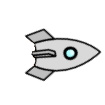
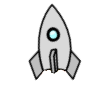
Made images file size smaller so that the total scenario size is smaller.
(from subversion r5623)

Changed region(s): [[0.2286, 0.0286, 0.9714, 0.8]]

diff --git a/greenfoot/scenarios/lunarlander/Explosion.java b/greenfoot/scenarios/lunarlander/Explosion.java
@@ -38,8 +38,8 @@ public class Explosion extends Actor
      */
     public synchronized static void initialiseImages() {
         if(images == null) {
-            GreenfootImage baseImage = new GreenfootImage("images/explosion.png");
-            int maxSize = baseImage.getWidth()/2;
+            GreenfootImage baseImage = new GreenfootImage("explosion.png");
+            int maxSize = baseImage.getWidth()*4;
             int delta = maxSize / (IMAGE_COUNT+1);
             int size = 0;
             images = new GreenfootImage[IMAGE_COUNT];

diff --git a/greenfoot/scenarios/lunarlander/Lander.java b/greenfoot/scenarios/lunarlander/Lander.java
@@ -44,9 +44,8 @@ public class Lander extends Actor
     public Lander()
     {
         rocket = getImage();
-        rocketWithThrust = new GreenfootImage("images/thrust.png");
+        rocketWithThrust = new GreenfootImage("thrust.png");
         rocketWithThrust.drawImage(rocket, 0, 0);
-        setRotation(-90);
     }       
 
     public void act()

diff --git a/greenfoot/scenarios/lunarlander/Moon.java b/greenfoot/scenarios/lunarlander/Moon.java
@@ -21,7 +21,6 @@ public class Moon extends World
     
     public Moon() {
         super(600,600,1);
-        setBackground("moon.png");
         addObject(new Lander(), 326, 100);
         //Force the explosion to initialise the images
         //We do this in a thread to make it load in the background
